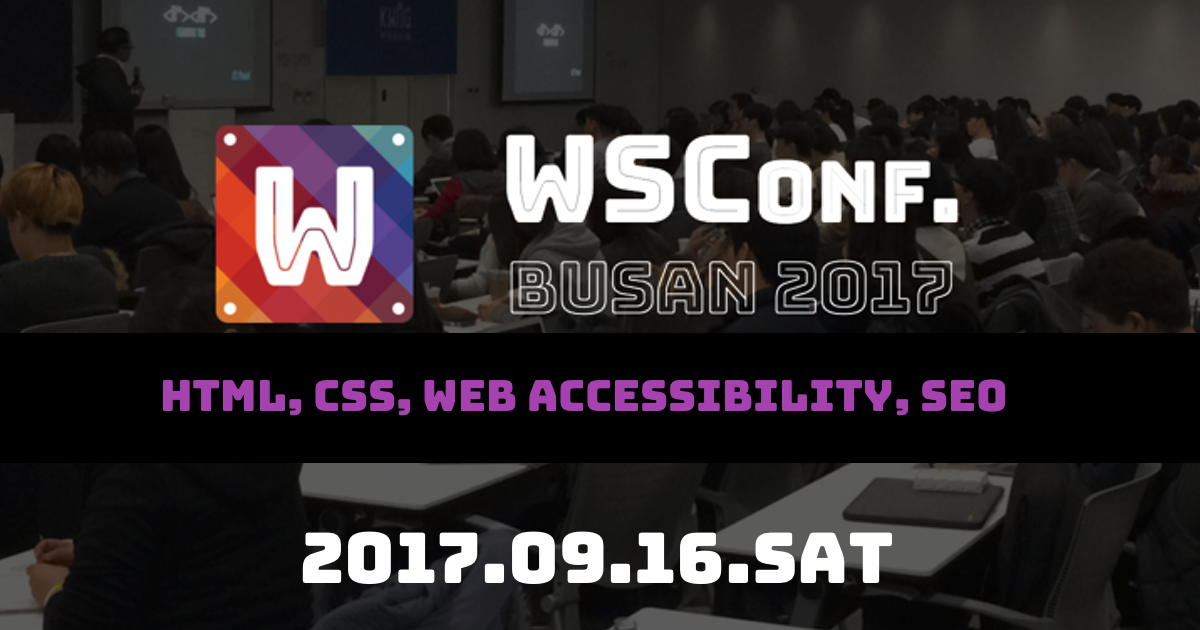
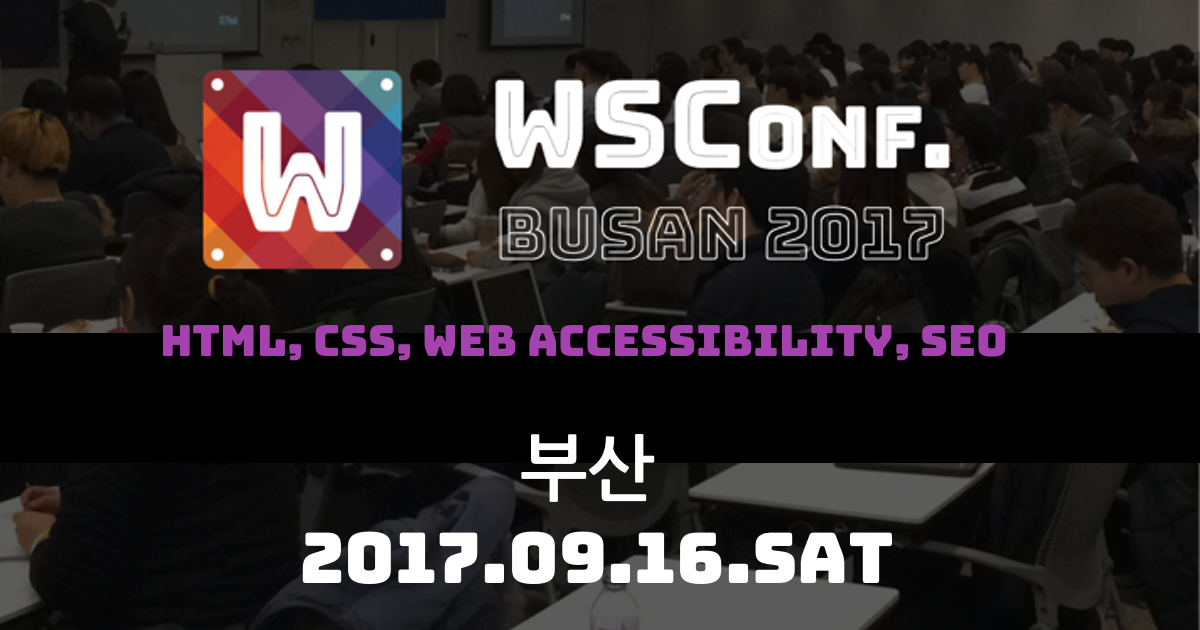
og data update

diff --git a/index.htm b/index.htm
@@ -10,7 +10,7 @@
     <meta name="description" content="WSConf.는 HTML, CSS, Web Accessibility, SEO 등과 Front-End 개발 전반을 다루는 컨퍼런스입니다. 웹을 이해하고, 웹을 만들고, 웹의 미래를 고민하고 있는 여러분들을 초대합니다.">
     <meta name="keywords" content="WSConf, Conference, 웹 표준, 웹 접근성, HTML, CSS, Web Accessibility, SEO">
     <meta property="og:site_name" content="WSConf.(Web Standards Conference)">
-    <meta property="og:title" content="WSConf.(Web Standards Conference)">
+    <meta property="og:title" content="WSConf.(Web Standards Conference). 부산">
     <meta property="og:image" content="http://wsconf.org/img/opimage_busan.png">
     <meta property="og:description" content="WSConf.는 HTML, CSS, Web Accessibility, SEO 등과 Front-End 개발 전반을 다루는 컨퍼런스입니다. 웹을 이해하고, 웹을 만들고, 웹의 미래를 고민하고 있는 여러분들을 초대합니다.">
     <meta name="twitter:site" content="@wsconf">
